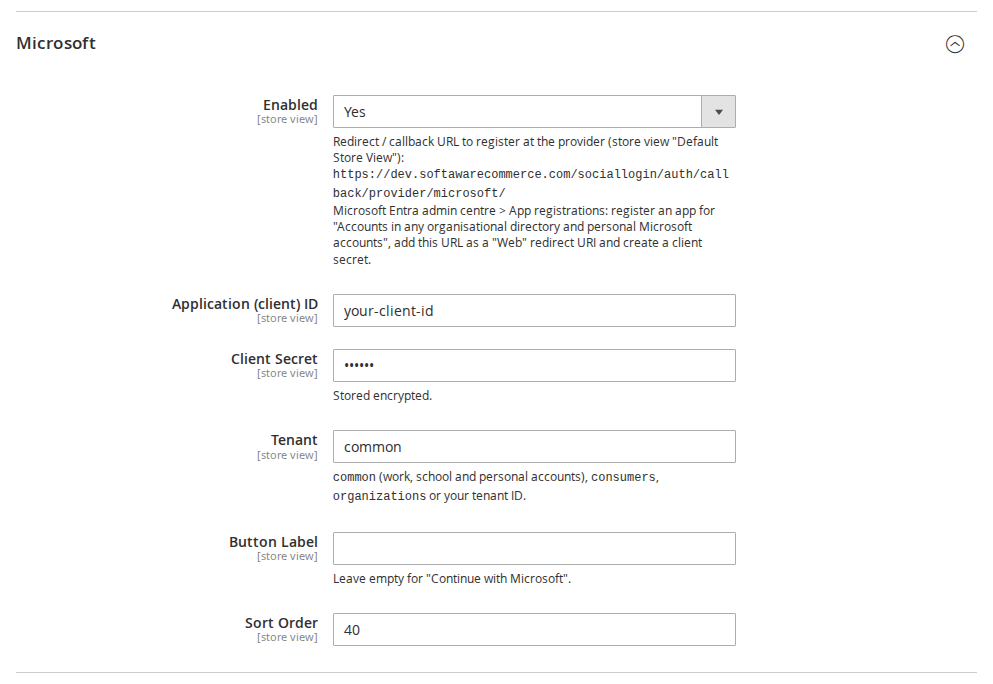
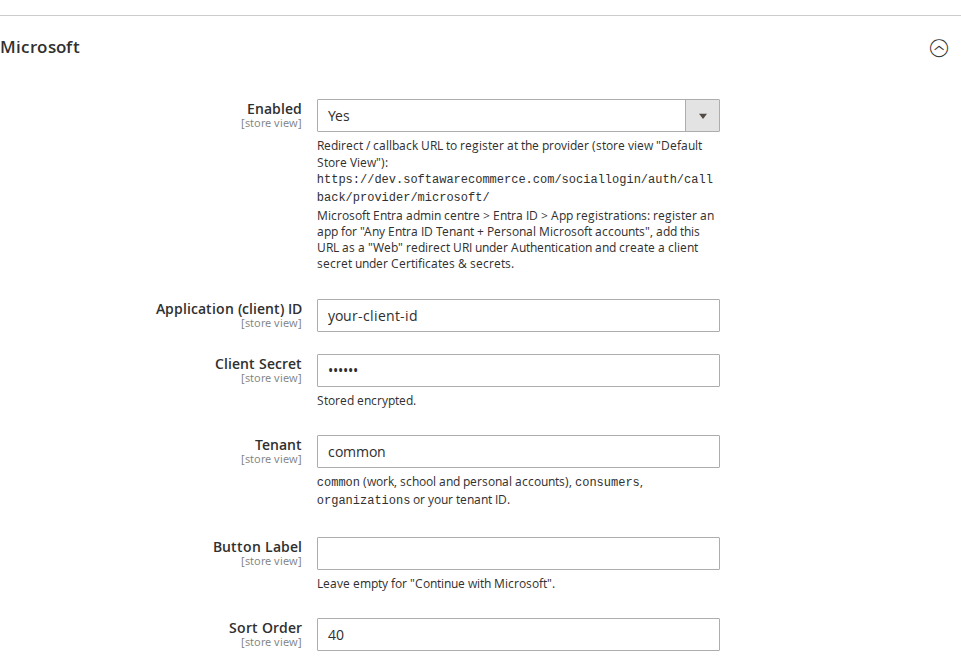
Current Microsoft Entra names, softawarecommerce.com links, tagline, docs screenshots (1.0.1)

diff --git a/docs/user-guide.md b/docs/user-guide.md
@@ -5,6 +5,8 @@ Facebook and X. This guide covers installation, the setup of each provider and c
 (where the buttons appear, popup or redirect, accounts, Connected Accounts, admin tools, CLI, privacy and
 troubleshooting) see the Social Login user guide; it applies to these providers too.
 
+- Product page: https://softawarecommerce.com/shop/magento-2-extensions/social-login-pro-for-magento-2/
+- Social Login (free, required): https://softawarecommerce.com/shop/magento-2-extensions/social-login-for-magento-2/
 - Changelog: [CHANGELOG.md](../CHANGELOG.md) · Questions: [FAQ](faq.md)
 
 ![Sign-in page with all providers](images/sign-in-luma.png)
@@ -20,8 +22,9 @@ troubleshooting) see the Social Login user guide; it applies to these providers 
 
 ## 2. Installation
 
-With Composer, using the access keys from your account on shop.softawarecommerce.com (if the SoftAware repository
-is already configured for Social Login, only the `composer require` line is needed):
+With Composer, using the Composer keys from your account on softawarecommerce.com (My account > Composer keys,
+https://softawarecommerce.com/my-modules/keys/). If the SoftAware repository is already configured for Social Login, only the `composer require`
+line is needed:
 
 ```bash
 composer config repositories.softaware composer https://repo.softawarecommerce.com
@@ -69,9 +72,11 @@ If name or email is missing, the customer completes a short form once.
 
 ### Microsoft
 
-1. Microsoft Entra admin centre > **App registrations** > New registration: choose "Accounts in any organisational
-   directory and personal Microsoft accounts" (or narrower, matching the **Tenant** you set below).
-2. Add the callback URL as a **Web** redirect URI and create a **client secret**.
+1. Microsoft Entra admin centre > **Entra ID** > **App registrations** > New registration: under "Supported account
+   types" choose "Any Entra ID Tenant + Personal Microsoft accounts" (or narrower, matching the **Tenant** you set
+   below).
+2. Under **Authentication** add the callback URL as a **Web** redirect URI, and under **Certificates & secrets**
+   create a **client secret**.
 3. In Magento enter the **Application (client) ID** and **Client Secret**. **Tenant**: `common` (work, school and
    personal accounts, default), `consumers` (personal only), `organizations` (work and school only) or your tenant
    ID (only your organisation).

diff --git a/README.md b/README.md
@@ -9,6 +9,7 @@ Package `softaware/module-social-login-pro`, module `Softaware_SocialLoginPro`.
 
 ![Sign-in page with all providers](docs/images/sign-in-luma.png)
 
+- Product page: https://softawarecommerce.com/shop/magento-2-extensions/social-login-pro-for-magento-2/
 - [User guide](docs/user-guide.md) (installation, provider setup, compatibility) · [FAQ](docs/faq.md) ·
   [Changelog](CHANGELOG.md)
 
@@ -58,8 +59,8 @@ Register the callback URL shown under each provider's **Enabled** field exactly 
 
 - **Apple**: Services ID with "Sign in with Apple" (domain + return URL), a key with "Sign in with Apple";
   enter Services ID, Team ID, Key ID and paste the .p8 file.
-- **Microsoft**: App registration for "any organisational directory and personal Microsoft accounts", Web
-  redirect URI, client secret.
+- **Microsoft**: Microsoft Entra admin centre > Entra ID > App registrations, "Any Entra ID Tenant + Personal
+  Microsoft accounts", Web redirect URI, client secret.
 - **GitHub**: OAuth App, "Authorization callback URL".
 - **LinkedIn**: product "Sign In with LinkedIn using OpenID Connect", authorised redirect URL.
 - **Amazon**: Login with Amazon security profile, "Allowed Return URLs".

diff --git a/CHANGELOG.md b/CHANGELOG.md
@@ -1,5 +1,18 @@
 # Changelog
 
+## 1.0.1 (2026-10-09)
+
+### Changed
+
+- Microsoft setup hint in the admin and docs uses the current Microsoft Entra admin centre names (Entra ID > App
+  registrations, account type "Any Entra ID Tenant + Personal Microsoft accounts", Authentication, Certificates &
+  secrets).
+- Docs: product page and Composer key links point to softawarecommerce.com (the shop moved from
+  shop.softawarecommerce.com); the product page tagline says Social Login is free and has no dashes.
+- Doc screenshots retaken without the Magento logo of the Hyvä default theme.
+- With Social Login 1.4.0, the "open this page in your browser" note for Instagram, Facebook and other in-app
+  browsers also covers the Pro providers (no change needed in this module).
+
 ## 1.0.0 (2026-10-07)
 
 First release. Add-on for Softaware Social Login 1.3+.
